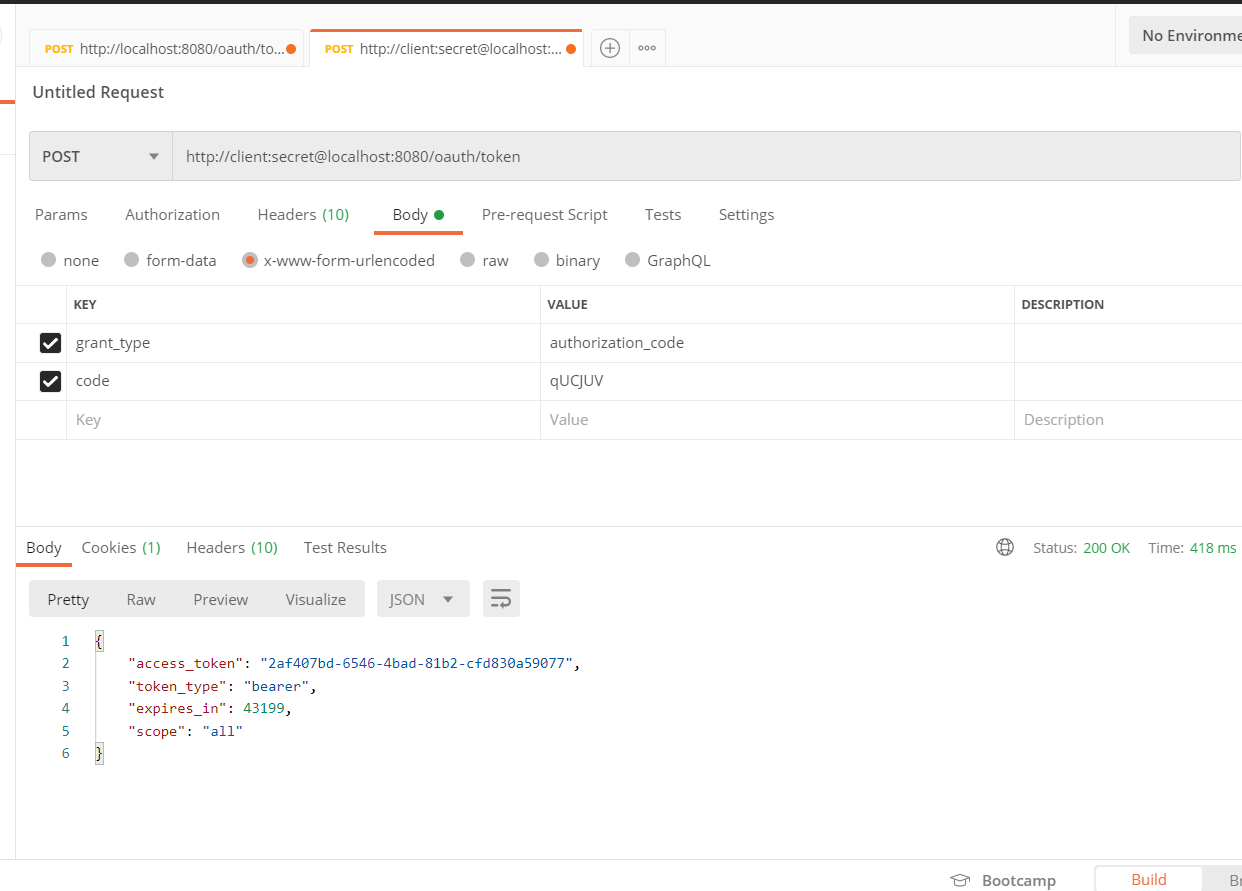
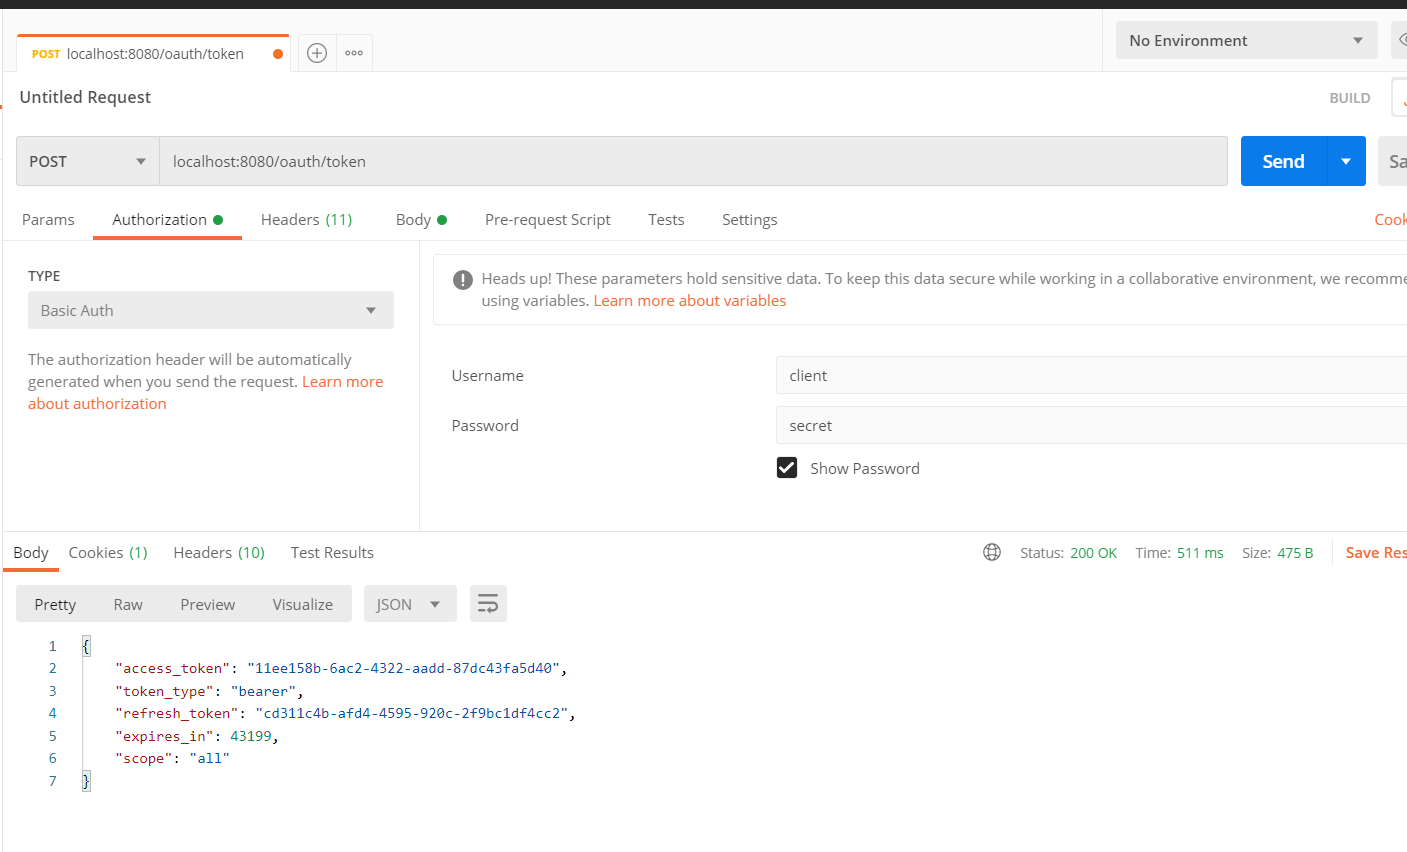
update

diff --git a/oauth2-mysql/src/main/java/com/hb0730/spring/oauth2/example/mysql/config/SecurityConfig.java b/oauth2-mysql/src/main/java/com/hb0730/spring/oauth2/example/mysql/config/SecurityConfig.java
@@ -8,8 +8,10 @@ import org.springframework.security.config.annotation.method.configuration.Enabl
 import org.springframework.security.config.annotation.web.configuration.EnableWebSecurity;
 import org.springframework.security.config.annotation.web.configuration.WebSecurityConfigurerAdapter;
 import org.springframework.security.core.userdetails.User;
+import org.springframework.security.core.userdetails.UserDetailsService;
 import org.springframework.security.crypto.bcrypt.BCryptPasswordEncoder;
 import org.springframework.security.crypto.password.PasswordEncoder;
+import org.springframework.security.provisioning.InMemoryUserDetailsManager;
 
 /**
  * pring security配置
@@ -40,6 +42,21 @@ public class SecurityConfig extends WebSecurityConfigurerAdapter {
                 .withUser("admin")
                 .password(passwordEncoder().encode("123456"))
                 .roles("ADMIN");
+    }
+
+    @Override
+    @Bean
+    protected UserDetailsService userDetailsService() {
+        InMemoryUserDetailsManager manager = new InMemoryUserDetailsManager();
+        manager.createUser(User.withUsername("user")
+                .password(passwordEncoder().encode("123456"))
+                .authorities("ROLE_USER")
+                .build());
+        manager.createUser(User.withUsername("admin")
+                .password(passwordEncoder().encode("123456"))
+                .authorities("ROLE_ADMIN")
+                .build());
+        return manager;
     }
 
     /**

diff --git a/oauth2-mysql/src/main/java/com/hb0730/spring/oauth2/example/mysql/config/Oauth2AuthorizationServerConfig.java b/oauth2-mysql/src/main/java/com/hb0730/spring/oauth2/example/mysql/config/Oauth2AuthorizationServerConfig.java
@@ -4,6 +4,7 @@ import lombok.RequiredArgsConstructor;
 import org.springframework.context.annotation.Bean;
 import org.springframework.context.annotation.Configuration;
 import org.springframework.security.authentication.AuthenticationManager;
+import org.springframework.security.core.userdetails.UserDetailsService;
 import org.springframework.security.crypto.password.PasswordEncoder;
 import org.springframework.security.oauth2.config.annotation.configurers.ClientDetailsServiceConfigurer;
 import org.springframework.security.oauth2.config.annotation.web.configuration.AuthorizationServerConfigurerAdapter;
@@ -29,6 +30,7 @@ public class Oauth2AuthorizationServerConfig extends AuthorizationServerConfigur
     private final AuthenticationManager authenticationManager;
     private final DataSource dataSource;
     private final PasswordEncoder passwordEncoder;
+    private final UserDetailsService userDetailsService;
 
     @Bean
     public TokenStore tokenStore() {
@@ -47,6 +49,8 @@ public class Oauth2AuthorizationServerConfig extends AuthorizationServerConfigur
         // 设置令牌
         endpoints
                 .tokenStore(tokenStore())
+                //解决refresh_token 报错
+                .userDetailsService(userDetailsService)
                 .authenticationManager(authenticationManager);
     }
 

diff --git a/oauth2-mysql/README.md b/oauth2-mysql/README.md
@@ -7,19 +7,44 @@
 由于我们使用的是 MySQL 数据库，默认建表语句中主键为 VARCHAR(256)，这超过了最大的主键长度，请手动修改为 128，并用 BLOB 替换语句中的 LONGVARBINARY 类型，修改后的建表脚本如下：
 `
 
-# 访问
-## 未新增客户端
-1. http://localhost:8080
-
-## 新增客户端
+# 新增客户端
 ```sql
-INSERT INTO `oauth2-test`.`oauth_client_details`(`client_id`, `resource_ids`, `client_secret`, `scope`, `authorized_grant_types`, `web_server_redirect_uri`, `authorities`, `access_token_validity`, `refresh_token_validity`, `additional_information`, `autoapprove`) VALUES ('client', NULL, '$2a$10$jEOkxbXHguVjkcnLteFrn.FmbtlWu5OHk2DNuWLyDS1vDXRpbld4u', 'all', 'password,authorization_code', 'http://localhost:8080/index', NULL, NULL, NULL, NULL, NULL);
+INSERT INTO `oauth2-test`.`oauth_client_details`(`client_id`, `resource_ids`, `client_secret`, `scope`, `authorized_grant_types`, `web_server_redirect_uri`, `authorities`, `access_token_validity`, `refresh_token_validity`, `additional_information`, `autoapprove`) VALUES ('client', NULL, '$2a$10$jEOkxbXHguVjkcnLteFrn.FmbtlWu5OHk2DNuWLyDS1vDXRpbld4u', 'all', 'password,authorization_code,refresh_token', 'http://localhost:8080/index', NULL, NULL, NULL, NULL, NULL);
 
 ```
-1. code: http://localhost:8080/oauth/authorize?client_id=client&response_type=code
-
-2. postman: curl -X POST -H "Content-Type: application/x-www-form-urlencoded" -d 'grant_type=authorization_code&code=1JuO6V' "http://client:secret@localhost:8080/oauth/token"
+# 访问
+## 1. 使用password
 
 <img src="https://github.com/hb0730/spring-security-oauth2-example/blob/master/doc/jdbc/jdbc-01.png" alt="1">
 
-3. 数据库 `oauth_access_token` 表中会增加一笔记录
+<img src="https://github.com/hb0730/spring-security-oauth2-example/blob/master/doc/jdbc/jdbc-02.png" alt="1">
+
+数据库中`oauth_access_token`
+
+<img src="https://github.com/hb0730/spring-security-oauth2-example/blob/master/doc/jdbc/jdbc-03.png" alt="1">
+
+**刷新token**
+
+<img src="https://github.com/hb0730/spring-security-oauth2-example/blob/master/doc/jdbc/jdbc-04.png" alt="1">
+
+<img src="https://github.com/hb0730/spring-security-oauth2-example/blob/master/doc/jdbc/jdbc-05.png" alt="1">
+
+
+## 2. 使用code
+1. code: http://localhost:8080/oauth/authorize?client_id=client&response_type=code
+<img src="https://github.com/hb0730/spring-security-oauth2-example/blob/master/doc/jdbc/jdbc-06.png" alt="1">
+
+<img src="https://github.com/hb0730/spring-security-oauth2-example/blob/master/doc/jdbc/jdbc-07.png" alt="1">
+
+<img src="https://github.com/hb0730/spring-security-oauth2-example/blob/master/doc/jdbc/jdbc-08.png" alt="1">
+
+此时令牌并未存储在数据库中
+
+<img src="https://github.com/hb0730/spring-security-oauth2-example/blob/master/doc/jdbc/jdbc-09.png" alt="1">
+
+将令牌存储在数据库中 **向服务器申请令牌**
+<img src="https://github.com/hb0730/spring-security-oauth2-example/blob/master/doc/jdbc/jdbc-10.png" alt="1">
+
+<img src="https://github.com/hb0730/spring-security-oauth2-example/blob/master/doc/jdbc/jdbc-11.png" alt="1">
+
+<img src="https://github.com/hb0730/spring-security-oauth2-example/blob/master/doc/jdbc/jdbc-12.png" alt="1">
